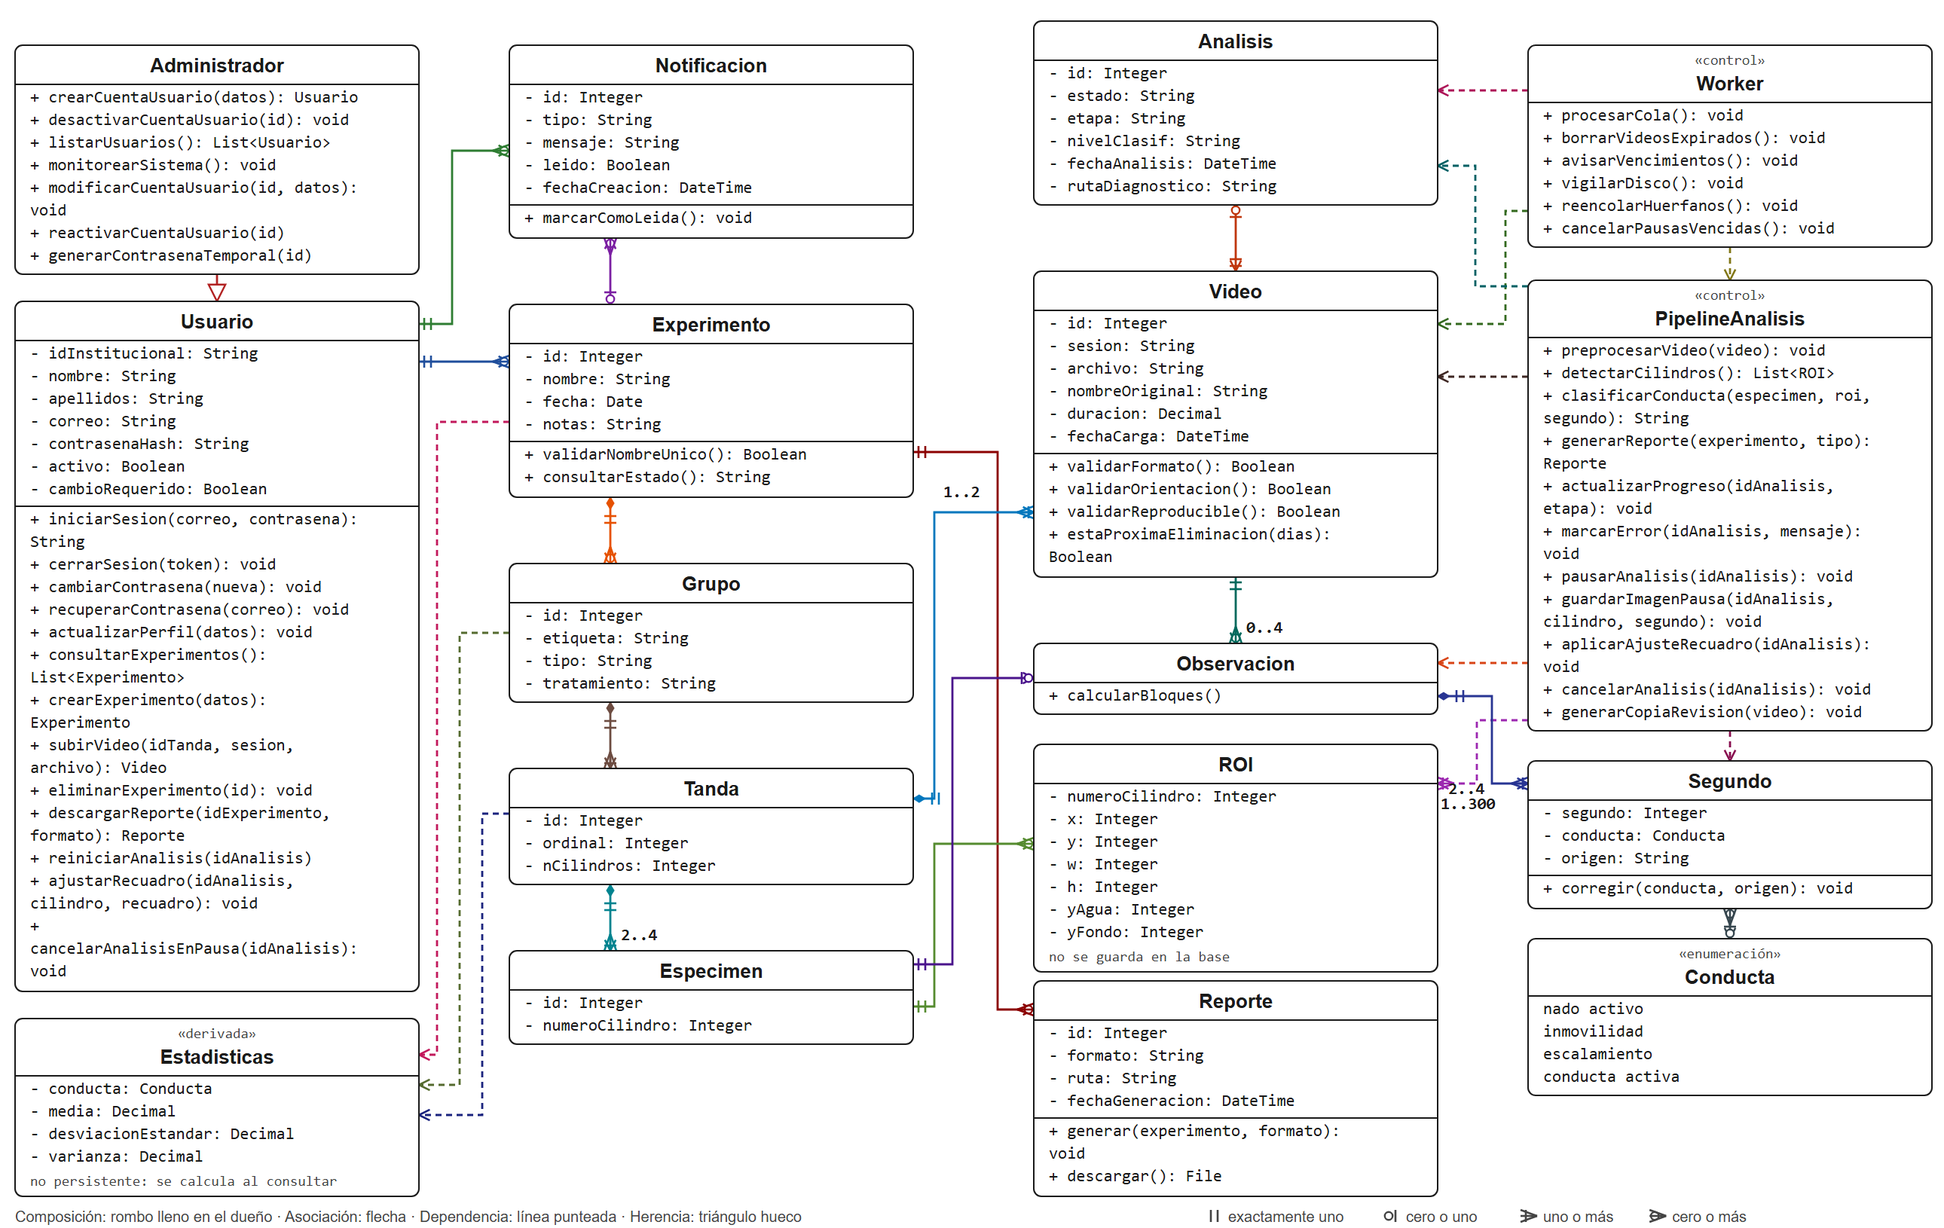
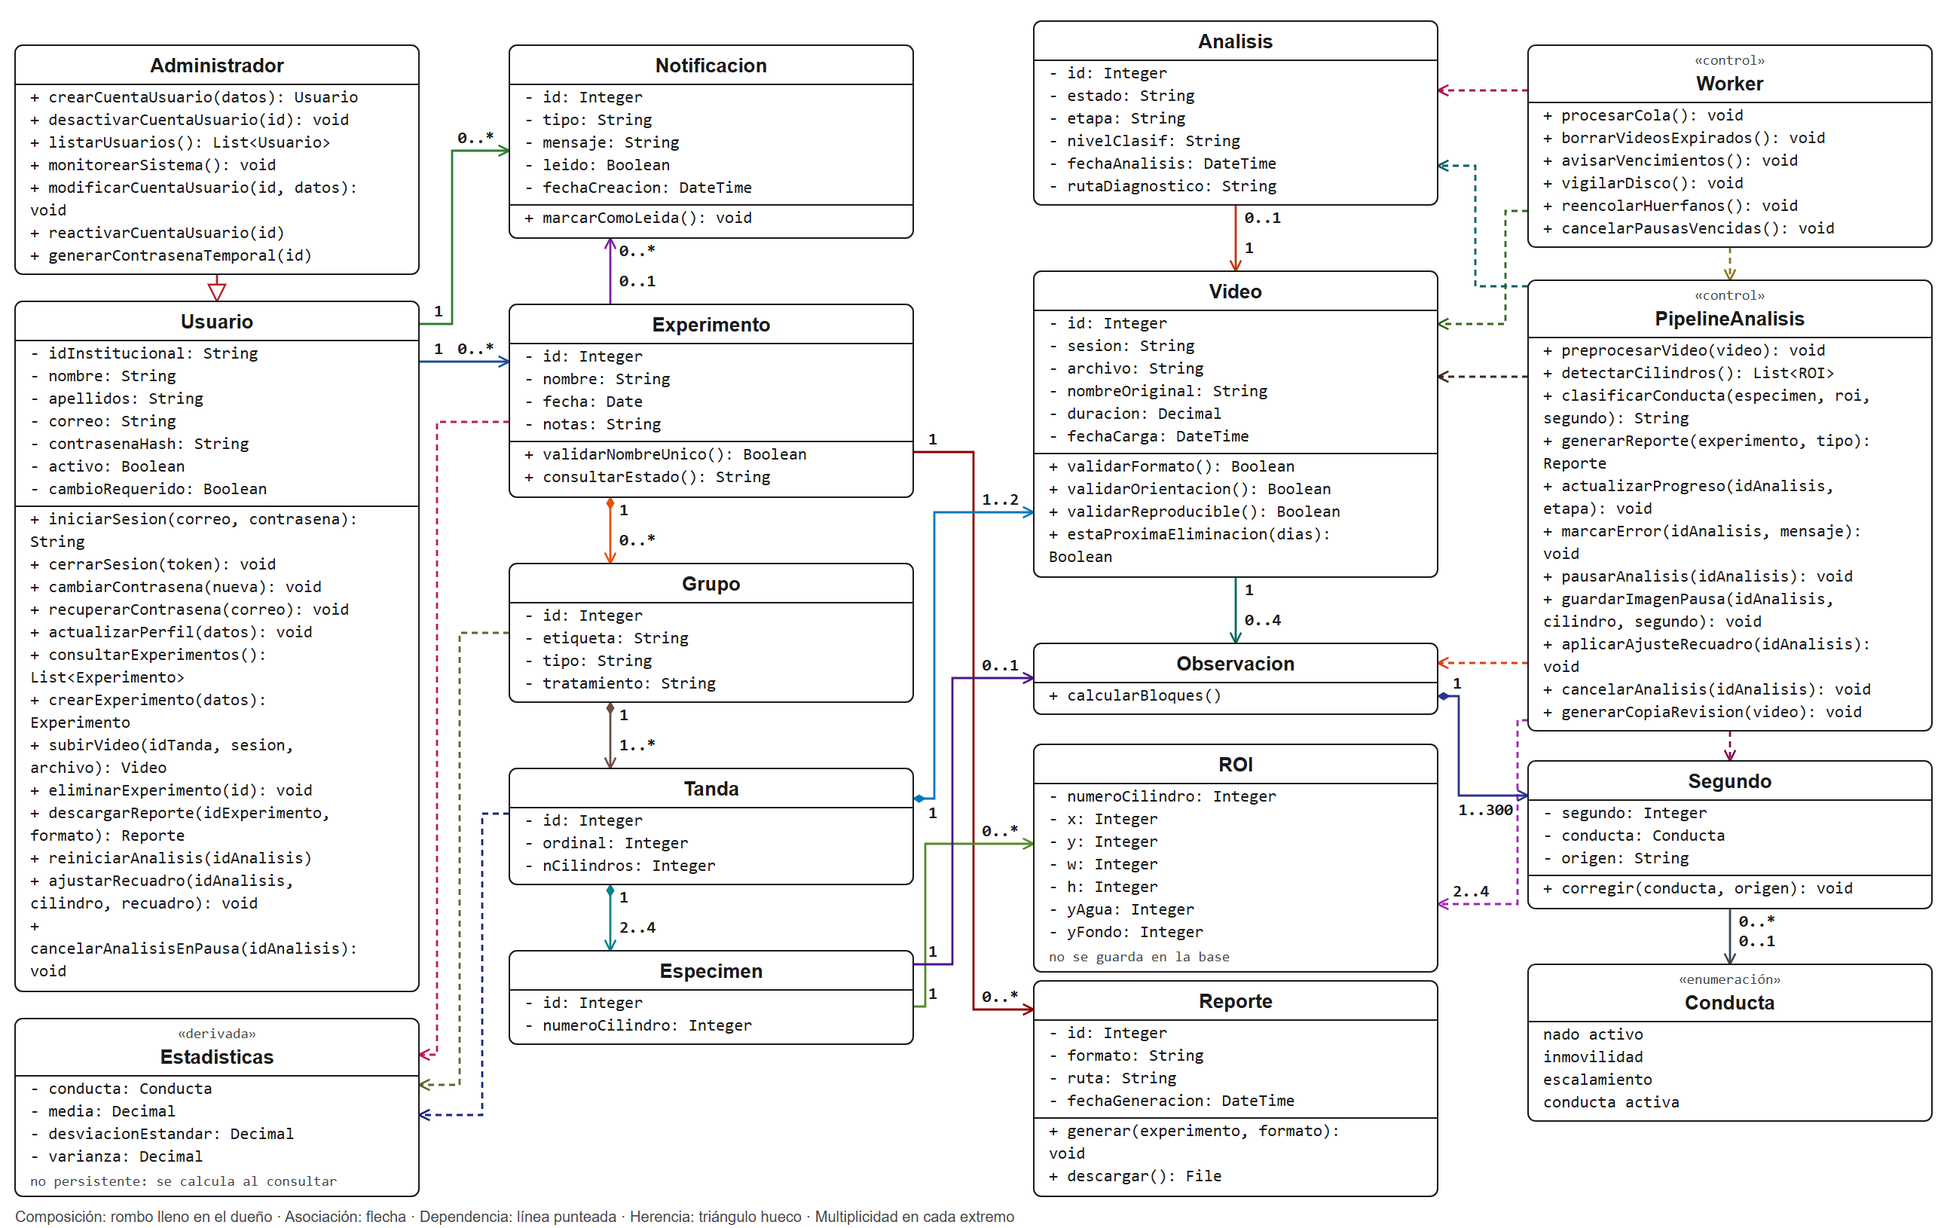
Regresar el diagrama de clases a multiplicidades numericas
Kendall y Kendall (Analisis y diseno de sistemas, cap. 10, fig. 10.17)
indica la multiplicidad de los diagramas de clases con numeros (0, 1, *,
0..1, 1..*); la pata de gallo la reserva para los diagramas
entidad-relacion. El esquema fisico conserva la pata de gallo.
Cada extremo lleva su numero junto a su clase y del color de su relacion;
se conservan los colores, las posiciones y las rutas.

diff --git a/diagramas/diagram_design/clases_completo.html b/diagramas/diagram_design/clases_completo.html
@@ -47,9 +47,9 @@
 <path d="M338,280 L290,280 L290,700 L278,700" fill="none" stroke="#c2185b" stroke-width="1.4" stroke-dasharray="4,3" marker-end="url(#c-arr-7)"/>
 <path d="M338,420 L305,420 L305,720 L278,720" fill="none" stroke="#556b2f" stroke-width="1.4" stroke-dasharray="4,3" marker-end="url(#c-arr-8)"/>
 <path d="M338,540 L320,540 L320,740 L278,740" fill="none" stroke="#1a237e" stroke-width="1.4" stroke-dasharray="4,3" marker-end="url(#c-arr-9)"/>
-<path d="M606,300 L662,300 L662,670 L686,670" fill="none" stroke="#8b0000" stroke-width="1.4" marker-end="url(#c-arr-10)"/>
+<path d="M606,300 L646,300 L646,670 L686,670" fill="none" stroke="#8b0000" stroke-width="1.4" marker-end="url(#c-arr-10)"/>
 <path d="M606,530 L620,530 L620,340 L686,340" fill="none" stroke="#0277bd" stroke-width="1.4" marker-start="url(#c-dia-11)" marker-end="url(#c-arr-11)"/>
-<path d="M606,668 L620,668 L620,560 L686,560" fill="none" stroke="#558b2f" stroke-width="1.4" marker-end="url(#c-arr-12)"/>
+<path d="M606,668 L614,668 L614,560 L686,560" fill="none" stroke="#558b2f" stroke-width="1.4" marker-end="url(#c-arr-12)"/>
 <path d="M606,640 L632,640 L632,450 L686,450" fill="none" stroke="#4a148c" stroke-width="1.4" marker-end="url(#c-arr-13)"/>
 <path d="M820,136 L820,180" fill="none" stroke="#bf360c" stroke-width="1.4" marker-end="url(#c-arr-14)"/>
 <path d="M820,383 L820,427" fill="none" stroke="#00695c" stroke-width="1.4" marker-end="url(#c-arr-15)"/>
@@ -57,103 +57,70 @@
 <path d="M1014,140 L999,140 L999,215 L954,215" fill="none" stroke="#33691e" stroke-width="1.4" stroke-dasharray="4,3" marker-end="url(#c-arr-17)"/>
 <path d="M1014,250 L954,250" fill="none" stroke="#3e2723" stroke-width="1.4" stroke-dasharray="4,3" marker-end="url(#c-arr-18)"/>
 <path d="M1014,190 L979,190 L979,110 L954,110" fill="none" stroke="#006064" stroke-width="1.4" stroke-dasharray="4,3" marker-end="url(#c-arr-19)"/>
-<path d="M1014,478 L980,478 L980,520 L954,520" fill="none" stroke="#9c27b0" stroke-width="1.4" stroke-dasharray="4,3" marker-end="url(#c-arr-20)"/>
+<path d="M1014,478 L1007,478 L1007,600 L954,600" fill="none" stroke="#9c27b0" stroke-width="1.4" stroke-dasharray="4,3" marker-end="url(#c-arr-20)"/>
 <path d="M1014,440 L954,440" fill="none" stroke="#d84315" stroke-width="1.4" stroke-dasharray="4,3" marker-end="url(#c-arr-21)"/>
-<path d="M954,462 L990,462 L990,520 L1014,520" fill="none" stroke="#283593" stroke-width="1.4" marker-start="url(#c-dia-22)" marker-end="url(#c-arr-22)"/>
+<path d="M954,462 L968,462 L968,528 L1014,528" fill="none" stroke="#283593" stroke-width="1.4" marker-start="url(#c-dia-22)" marker-end="url(#c-arr-22)"/>
 <path d="M1148,164 L1148,186" fill="none" stroke="#827717" stroke-width="1.4" stroke-dasharray="4,3" marker-end="url(#c-arr-23)"/>
 <path d="M1148,485 L1148,505" fill="none" stroke="#880e4f" stroke-width="1.4" stroke-dasharray="4,3" marker-end="url(#c-arr-24)"/>
-<path d="M1148,603 L1148,623" fill="none" stroke="#37474f" stroke-width="1.4" marker-end="url(#c-arr-25)"/>
-<line x1="281.5" y1="244.0" x2="281.5" y2="236.0" stroke="#1f4e9c" stroke-width="1.3"/>
-<line x1="286.0" y1="244.0" x2="286.0" y2="236.0" stroke="#1f4e9c" stroke-width="1.3"/>
-<circle cx="334.5" cy="240.0" r="2.6" fill="#fff" stroke="#1f4e9c" stroke-width="1.2"/>
-<line x1="327.0" y1="240.0" x2="338.0" y2="236.0" stroke="#1f4e9c" stroke-width="1.3"/>
-<line x1="327.0" y1="240.0" x2="338.0" y2="240.0" stroke="#1f4e9c" stroke-width="1.3"/>
-<line x1="327.0" y1="240.0" x2="338.0" y2="244.0" stroke="#1f4e9c" stroke-width="1.3"/>
-<line x1="281.5" y1="219.0" x2="281.5" y2="211.0" stroke="#2e7d32" stroke-width="1.3"/>
-<line x1="286.0" y1="219.0" x2="286.0" y2="211.0" stroke="#2e7d32" stroke-width="1.3"/>
-<circle cx="334.5" cy="100.0" r="2.6" fill="#fff" stroke="#2e7d32" stroke-width="1.2"/>
-<line x1="327.0" y1="100.0" x2="338.0" y2="96.0" stroke="#2e7d32" stroke-width="1.3"/>
-<line x1="327.0" y1="100.0" x2="338.0" y2="100.0" stroke="#2e7d32" stroke-width="1.3"/>
-<line x1="327.0" y1="100.0" x2="338.0" y2="104.0" stroke="#2e7d32" stroke-width="1.3"/>
-<circle cx="405.0" cy="198.5" r="2.6" fill="#fff" stroke="#7b1fa2" stroke-width="1.2"/>
-<line x1="409.0" y1="194.0" x2="401.0" y2="194.0" stroke="#7b1fa2" stroke-width="1.3"/>
-<circle cx="405.0" cy="161.5" r="2.6" fill="#fff" stroke="#7b1fa2" stroke-width="1.2"/>
-<line x1="405.0" y1="169.0" x2="401.0" y2="158.0" stroke="#7b1fa2" stroke-width="1.3"/>
-<line x1="405.0" y1="169.0" x2="405.0" y2="158.0" stroke="#7b1fa2" stroke-width="1.3"/>
-<line x1="405.0" y1="169.0" x2="409.0" y2="158.0" stroke="#7b1fa2" stroke-width="1.3"/>
-<line x1="401.0" y1="342.5" x2="409.0" y2="342.5" stroke="#e65100" stroke-width="1.3"/>
-<line x1="401.0" y1="347.0" x2="409.0" y2="347.0" stroke="#e65100" stroke-width="1.3"/>
-<circle cx="405.0" cy="370.5" r="2.6" fill="#fff" stroke="#e65100" stroke-width="1.2"/>
-<line x1="405.0" y1="363.0" x2="409.0" y2="374.0" stroke="#e65100" stroke-width="1.3"/>
-<line x1="405.0" y1="363.0" x2="405.0" y2="374.0" stroke="#e65100" stroke-width="1.3"/>
-<line x1="405.0" y1="363.0" x2="401.0" y2="374.0" stroke="#e65100" stroke-width="1.3"/>
-<line x1="401.0" y1="478.5" x2="409.0" y2="478.5" stroke="#6d4c41" stroke-width="1.3"/>
-<line x1="401.0" y1="483.0" x2="409.0" y2="483.0" stroke="#6d4c41" stroke-width="1.3"/>
-<line x1="409.0" y1="506.5" x2="401.0" y2="506.5" stroke="#6d4c41" stroke-width="1.3"/>
-<line x1="405.0" y1="499.0" x2="409.0" y2="510.0" stroke="#6d4c41" stroke-width="1.3"/>
-<line x1="405.0" y1="499.0" x2="405.0" y2="510.0" stroke="#6d4c41" stroke-width="1.3"/>
-<line x1="405.0" y1="499.0" x2="401.0" y2="510.0" stroke="#6d4c41" stroke-width="1.3"/>
-<line x1="401.0" y1="599.5" x2="409.0" y2="599.5" stroke="#00838f" stroke-width="1.3"/>
-<line x1="401.0" y1="604.0" x2="409.0" y2="604.0" stroke="#00838f" stroke-width="1.3"/>
-<line x1="409.0" y1="627.5" x2="401.0" y2="627.5" stroke="#00838f" stroke-width="1.3"/>
-<line x1="405.0" y1="620.0" x2="409.0" y2="631.0" stroke="#00838f" stroke-width="1.3"/>
-<line x1="405.0" y1="620.0" x2="405.0" y2="631.0" stroke="#00838f" stroke-width="1.3"/>
-<line x1="405.0" y1="620.0" x2="401.0" y2="631.0" stroke="#00838f" stroke-width="1.3"/>
-<text x="412.0" y="624.0" text-anchor="start" class="m" fill="#00838f" style="font-size:11px">2..4</text>
-<line x1="609.5" y1="304.0" x2="609.5" y2="296.0" stroke="#8b0000" stroke-width="1.3"/>
-<line x1="614.0" y1="304.0" x2="614.0" y2="296.0" stroke="#8b0000" stroke-width="1.3"/>
-<circle cx="682.5" cy="670.0" r="2.6" fill="#fff" stroke="#8b0000" stroke-width="1.2"/>
-<line x1="675.0" y1="670.0" x2="686.0" y2="666.0" stroke="#8b0000" stroke-width="1.3"/>
-<line x1="675.0" y1="670.0" x2="686.0" y2="670.0" stroke="#8b0000" stroke-width="1.3"/>
-<line x1="675.0" y1="670.0" x2="686.0" y2="674.0" stroke="#8b0000" stroke-width="1.3"/>
-<line x1="618.5" y1="534.0" x2="618.5" y2="526.0" stroke="#0277bd" stroke-width="1.3"/>
-<line x1="623.0" y1="534.0" x2="623.0" y2="526.0" stroke="#0277bd" stroke-width="1.3"/>
-<line x1="682.5" y1="336.0" x2="682.5" y2="344.0" stroke="#0277bd" stroke-width="1.3"/>
-<line x1="675.0" y1="340.0" x2="686.0" y2="336.0" stroke="#0277bd" stroke-width="1.3"/>
-<line x1="675.0" y1="340.0" x2="686.0" y2="340.0" stroke="#0277bd" stroke-width="1.3"/>
-<line x1="675.0" y1="340.0" x2="686.0" y2="344.0" stroke="#0277bd" stroke-width="1.3"/>
-<rect x="624" y="320" width="32" height="13" fill="#fff"/>
-<text x="626" y="330" text-anchor="start" class="m" fill="#0277bd" style="font-size:11px">1..2</text>
-<line x1="609.5" y1="672.0" x2="609.5" y2="664.0" stroke="#558b2f" stroke-width="1.3"/>
-<line x1="614.0" y1="672.0" x2="614.0" y2="664.0" stroke="#558b2f" stroke-width="1.3"/>
-<circle cx="682.5" cy="560.0" r="2.6" fill="#fff" stroke="#558b2f" stroke-width="1.2"/>
-<line x1="675.0" y1="560.0" x2="686.0" y2="556.0" stroke="#558b2f" stroke-width="1.3"/>
-<line x1="675.0" y1="560.0" x2="686.0" y2="560.0" stroke="#558b2f" stroke-width="1.3"/>
-<line x1="675.0" y1="560.0" x2="686.0" y2="564.0" stroke="#558b2f" stroke-width="1.3"/>
-<line x1="609.5" y1="644.0" x2="609.5" y2="636.0" stroke="#4a148c" stroke-width="1.3"/>
-<line x1="614.0" y1="644.0" x2="614.0" y2="636.0" stroke="#4a148c" stroke-width="1.3"/>
-<circle cx="682.5" cy="450.0" r="2.6" fill="#fff" stroke="#4a148c" stroke-width="1.2"/>
-<line x1="678.0" y1="446.0" x2="678.0" y2="454.0" stroke="#4a148c" stroke-width="1.3"/>
-<circle cx="820.0" cy="139.5" r="2.6" fill="#fff" stroke="#bf360c" stroke-width="1.2"/>
-<line x1="816.0" y1="144.0" x2="824.0" y2="144.0" stroke="#bf360c" stroke-width="1.3"/>
-<line x1="824.0" y1="176.5" x2="816.0" y2="176.5" stroke="#bf360c" stroke-width="1.3"/>
-<line x1="824.0" y1="172.0" x2="816.0" y2="172.0" stroke="#bf360c" stroke-width="1.3"/>
-<line x1="816.0" y1="386.5" x2="824.0" y2="386.5" stroke="#00695c" stroke-width="1.3"/>
-<line x1="816.0" y1="391.0" x2="824.0" y2="391.0" stroke="#00695c" stroke-width="1.3"/>
-<circle cx="820.0" cy="423.5" r="2.6" fill="#fff" stroke="#00695c" stroke-width="1.2"/>
-<line x1="820.0" y1="416.0" x2="824.0" y2="427.0" stroke="#00695c" stroke-width="1.3"/>
-<line x1="820.0" y1="416.0" x2="820.0" y2="427.0" stroke="#00695c" stroke-width="1.3"/>
-<line x1="820.0" y1="416.0" x2="816.0" y2="427.0" stroke="#00695c" stroke-width="1.3"/>
-<text x="827.0" y="420.0" text-anchor="start" class="m" fill="#00695c" style="font-size:11px">0..4</text>
-<line x1="957.5" y1="524.0" x2="957.5" y2="516.0" stroke="#9c27b0" stroke-width="1.3"/>
-<line x1="965.0" y1="520.0" x2="954.0" y2="524.0" stroke="#9c27b0" stroke-width="1.3"/>
-<line x1="965.0" y1="520.0" x2="954.0" y2="520.0" stroke="#9c27b0" stroke-width="1.3"/>
-<line x1="965.0" y1="520.0" x2="954.0" y2="516.0" stroke="#9c27b0" stroke-width="1.3"/>
-<text x="961.0" y="527.0" text-anchor="start" class="m" fill="#9c27b0" style="font-size:11px">2..4</text>
-<line x1="966.5" y1="466.0" x2="966.5" y2="458.0" stroke="#283593" stroke-width="1.3"/>
-<line x1="971.0" y1="466.0" x2="971.0" y2="458.0" stroke="#283593" stroke-width="1.3"/>
-<line x1="1010.5" y1="516.0" x2="1010.5" y2="524.0" stroke="#283593" stroke-width="1.3"/>
-<line x1="1003.0" y1="520.0" x2="1014.0" y2="516.0" stroke="#283593" stroke-width="1.3"/>
-<line x1="1003.0" y1="520.0" x2="1014.0" y2="520.0" stroke="#283593" stroke-width="1.3"/>
-<line x1="1003.0" y1="520.0" x2="1014.0" y2="524.0" stroke="#283593" stroke-width="1.3"/>
-<rect x="954" y="527" width="46" height="13" fill="#fff"/>
-<text x="956" y="537" text-anchor="start" class="m" fill="#283593" style="font-size:11px">1..300</text>
-<circle cx="1148.0" cy="606.5" r="2.6" fill="#fff" stroke="#37474f" stroke-width="1.2"/>
-<line x1="1148.0" y1="614.0" x2="1144.0" y2="603.0" stroke="#37474f" stroke-width="1.3"/>
-<line x1="1148.0" y1="614.0" x2="1148.0" y2="603.0" stroke="#37474f" stroke-width="1.3"/>
-<line x1="1148.0" y1="614.0" x2="1152.0" y2="603.0" stroke="#37474f" stroke-width="1.3"/>
-<circle cx="1148.0" cy="619.5" r="2.6" fill="#fff" stroke="#37474f" stroke-width="1.2"/>
-<line x1="1152.0" y1="615.0" x2="1144.0" y2="615.0" stroke="#37474f" stroke-width="1.3"/>
+<path d="M1148,603 L1148,640" fill="none" stroke="#37474f" stroke-width="1.4" marker-end="url(#c-arr-25)"/>
+<rect x="287.0" y="226.0" width="8.6" height="11.0" fill="#fff"/>
+<text x="288.0" y="235.0" text-anchor="start" class="m" fill="#1f4e9c" style="font-size:11px">1</text>
+<rect x="300.6" y="226.0" width="28.4" height="11.0" fill="#fff"/>
+<text x="328.0" y="235.0" text-anchor="end" class="m" fill="#1f4e9c" style="font-size:11px">0..*</text>
+<rect x="287.0" y="201.0" width="8.6" height="11.0" fill="#fff"/>
+<text x="288.0" y="210.0" text-anchor="start" class="m" fill="#2e7d32" style="font-size:11px">1</text>
+<rect x="300.6" y="86.0" width="28.4" height="11.0" fill="#fff"/>
+<text x="328.0" y="95.0" text-anchor="end" class="m" fill="#2e7d32" style="font-size:11px">0..*</text>
+<rect x="410.0" y="181.0" width="28.4" height="11.0" fill="#fff"/>
+<text x="411.0" y="190.0" text-anchor="start" class="m" fill="#7b1fa2" style="font-size:11px">0..1</text>
+<rect x="410.0" y="161.0" width="28.4" height="11.0" fill="#fff"/>
+<text x="411.0" y="170.0" text-anchor="start" class="m" fill="#7b1fa2" style="font-size:11px">0..*</text>
+<rect x="410.0" y="333.0" width="8.6" height="11.0" fill="#fff"/>
+<text x="411.0" y="342.0" text-anchor="start" class="m" fill="#e65100" style="font-size:11px">1</text>
+<rect x="410.0" y="353.0" width="28.4" height="11.0" fill="#fff"/>
+<text x="411.0" y="362.0" text-anchor="start" class="m" fill="#e65100" style="font-size:11px">0..*</text>
+<rect x="410.0" y="469.0" width="8.6" height="11.0" fill="#fff"/>
+<text x="411.0" y="478.0" text-anchor="start" class="m" fill="#6d4c41" style="font-size:11px">1</text>
+<rect x="410.0" y="489.0" width="28.4" height="11.0" fill="#fff"/>
+<text x="411.0" y="498.0" text-anchor="start" class="m" fill="#6d4c41" style="font-size:11px">1..*</text>
+<rect x="410.0" y="590.0" width="8.6" height="11.0" fill="#fff"/>
+<text x="411.0" y="599.0" text-anchor="start" class="m" fill="#00838f" style="font-size:11px">1</text>
+<rect x="410.0" y="610.0" width="28.4" height="11.0" fill="#fff"/>
+<text x="411.0" y="619.0" text-anchor="start" class="m" fill="#00838f" style="font-size:11px">2..4</text>
+<rect x="615.0" y="286.0" width="8.6" height="11.0" fill="#fff"/>
+<text x="616.0" y="295.0" text-anchor="start" class="m" fill="#8b0000" style="font-size:11px">1</text>
+<rect x="648.6" y="656.0" width="28.4" height="11.0" fill="#fff"/>
+<text x="676.0" y="665.0" text-anchor="end" class="m" fill="#8b0000" style="font-size:11px">0..*</text>
+<rect x="615.0" y="534.0" width="8.6" height="11.0" fill="#fff"/>
+<text x="616.0" y="543.0" text-anchor="start" class="m" fill="#0277bd" style="font-size:11px">1</text>
+<rect x="648.6" y="326.0" width="28.4" height="11.0" fill="#fff"/>
+<text x="676.0" y="335.0" text-anchor="end" class="m" fill="#0277bd" style="font-size:11px">1..2</text>
+<rect x="615.0" y="654.0" width="8.6" height="11.0" fill="#fff"/>
+<text x="616.0" y="663.0" text-anchor="start" class="m" fill="#558b2f" style="font-size:11px">1</text>
+<rect x="648.6" y="546.0" width="28.4" height="11.0" fill="#fff"/>
+<text x="676.0" y="555.0" text-anchor="end" class="m" fill="#558b2f" style="font-size:11px">0..*</text>
+<rect x="615.0" y="626.0" width="8.6" height="11.0" fill="#fff"/>
+<text x="616.0" y="635.0" text-anchor="start" class="m" fill="#4a148c" style="font-size:11px">1</text>
+<rect x="648.6" y="436.0" width="28.4" height="11.0" fill="#fff"/>
+<text x="676.0" y="445.0" text-anchor="end" class="m" fill="#4a148c" style="font-size:11px">0..1</text>
+<rect x="825.0" y="139.0" width="28.4" height="11.0" fill="#fff"/>
+<text x="826.0" y="148.0" text-anchor="start" class="m" fill="#bf360c" style="font-size:11px">0..1</text>
+<rect x="825.0" y="159.0" width="8.6" height="11.0" fill="#fff"/>
+<text x="826.0" y="168.0" text-anchor="start" class="m" fill="#bf360c" style="font-size:11px">1</text>
+<rect x="825.0" y="386.0" width="8.6" height="11.0" fill="#fff"/>
+<text x="826.0" y="395.0" text-anchor="start" class="m" fill="#00695c" style="font-size:11px">1</text>
+<rect x="825.0" y="406.0" width="28.4" height="11.0" fill="#fff"/>
+<text x="826.0" y="415.0" text-anchor="start" class="m" fill="#00695c" style="font-size:11px">0..4</text>
+<rect x="963.0" y="586.0" width="28.4" height="11.0" fill="#fff"/>
+<text x="964.0" y="595.0" text-anchor="start" class="m" fill="#9c27b0" style="font-size:11px">2..4</text>
+<rect x="963.0" y="448.0" width="8.6" height="11.0" fill="#fff"/>
+<text x="964.0" y="457.0" text-anchor="start" class="m" fill="#283593" style="font-size:11px">1</text>
+<rect x="963.4" y="532.0" width="41.6" height="11.0" fill="#fff"/>
+<text x="1004.0" y="541.0" text-anchor="end" class="m" fill="#283593" style="font-size:11px">1..300</text>
+<rect x="1153.0" y="606.0" width="28.4" height="11.0" fill="#fff"/>
+<text x="1154.0" y="615.0" text-anchor="start" class="m" fill="#37474f" style="font-size:11px">0..*</text>
+<rect x="1153.0" y="619.0" width="28.4" height="11.0" fill="#fff"/>
+<text x="1154.0" y="628.0" text-anchor="start" class="m" fill="#37474f" style="font-size:11px">0..1</text>
 <rect x="10" y="30" width="268" height="152" rx="5" fill="#fff" stroke="#1a1a1a" stroke-width="1"/>
 <text x="144.0" y="48" text-anchor="middle" class="nm">Administrador</text>
 <line x1="10" y1="56" x2="278" y2="56" stroke="#1a1a1a"/>
@@ -333,29 +300,13 @@
 <text x="1024" y="573" class="a">- origen: String</text>
 <line x1="1014" y1="581" x2="1282" y2="581" stroke="#1a1a1a"/>
 <text x="1024" y="593" class="a">+ corregir(conducta, origen): void</text>
-<rect x="1014" y="623" width="268" height="104" rx="5" fill="#fff" stroke="#1a1a1a" stroke-width="1"/>
-<text x="1148.0" y="636" text-anchor="middle" class="st">«enumeración»</text>
-<text x="1148.0" y="653" text-anchor="middle" class="nm">Conducta</text>
-<line x1="1014" y1="661" x2="1282" y2="661" stroke="#1a1a1a"/>
-<text x="1024" y="673" class="a">nado activo</text>
-<text x="1024" y="688" class="a">inmovilidad</text>
-<text x="1024" y="703" class="a">escalamiento</text>
-<text x="1024" y="718" class="a">conducta activa</text>
-<text x="10" y="811" class="lg">Composición: rombo lleno en el dueño · Asociación: flecha · Dependencia: línea punteada · Herencia: triángulo hueco</text>
-<line x1="803.5" y1="811.0" x2="803.5" y2="803.0" stroke="#444" stroke-width="1.3"/>
-<line x1="808.0" y1="811.0" x2="808.0" y2="803.0" stroke="#444" stroke-width="1.3"/>
-<text x="815" y="811" class="lg">exactamente uno</text>
-<circle cx="921.5" cy="807.0" r="2.6" fill="#fff" stroke="#444" stroke-width="1.2"/>
-<line x1="926.0" y1="811.0" x2="926.0" y2="803.0" stroke="#444" stroke-width="1.3"/>
-<text x="933.0" y="811" class="lg">cero o uno</text>
-<line x1="1012.5" y1="811.0" x2="1012.5" y2="803.0" stroke="#444" stroke-width="1.3"/>
-<line x1="1020.0" y1="807.0" x2="1009.0" y2="811.0" stroke="#444" stroke-width="1.3"/>
-<line x1="1020.0" y1="807.0" x2="1009.0" y2="807.0" stroke="#444" stroke-width="1.3"/>
-<line x1="1020.0" y1="807.0" x2="1009.0" y2="803.0" stroke="#444" stroke-width="1.3"/>
-<text x="1024.0" y="811" class="lg">uno o más</text>
-<circle cx="1098.1" cy="807.0" r="2.6" fill="#fff" stroke="#444" stroke-width="1.2"/>
-<line x1="1105.6" y1="807.0" x2="1094.6" y2="811.0" stroke="#444" stroke-width="1.3"/>
-<line x1="1105.6" y1="807.0" x2="1094.6" y2="807.0" stroke="#444" stroke-width="1.3"/>
-<line x1="1105.6" y1="807.0" x2="1094.6" y2="803.0" stroke="#444" stroke-width="1.3"/>
-<text x="1109.6" y="811" class="lg">cero o más</text>
+<rect x="1014" y="640" width="268" height="104" rx="5" fill="#fff" stroke="#1a1a1a" stroke-width="1"/>
+<text x="1148.0" y="653" text-anchor="middle" class="st">«enumeración»</text>
+<text x="1148.0" y="670" text-anchor="middle" class="nm">Conducta</text>
+<line x1="1014" y1="678" x2="1282" y2="678" stroke="#1a1a1a"/>
+<text x="1024" y="690" class="a">nado activo</text>
+<text x="1024" y="705" class="a">inmovilidad</text>
+<text x="1024" y="720" class="a">escalamiento</text>
+<text x="1024" y="735" class="a">conducta activa</text>
+<text x="10" y="811" class="lg">Composición: rombo lleno en el dueño · Asociación: flecha · Dependencia: línea punteada · Herencia: triángulo hueco · Multiplicidad en cada extremo</text>
 </svg></body></html>
